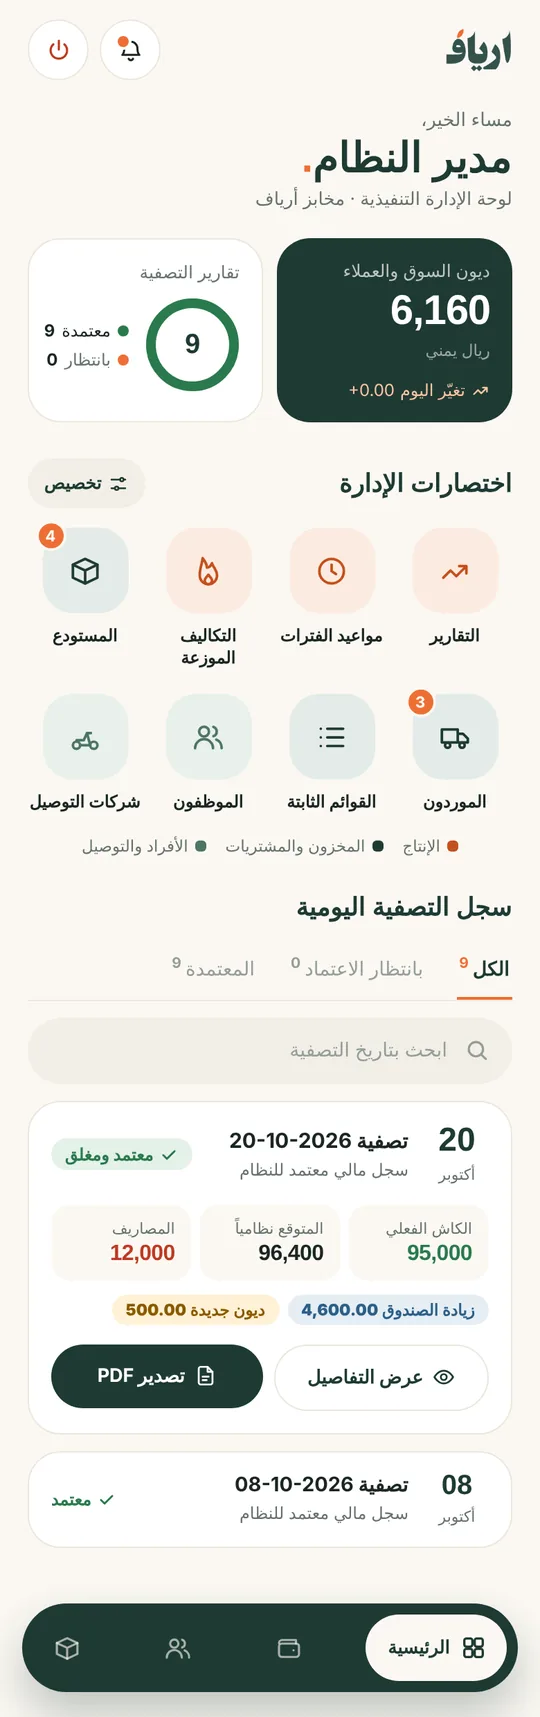
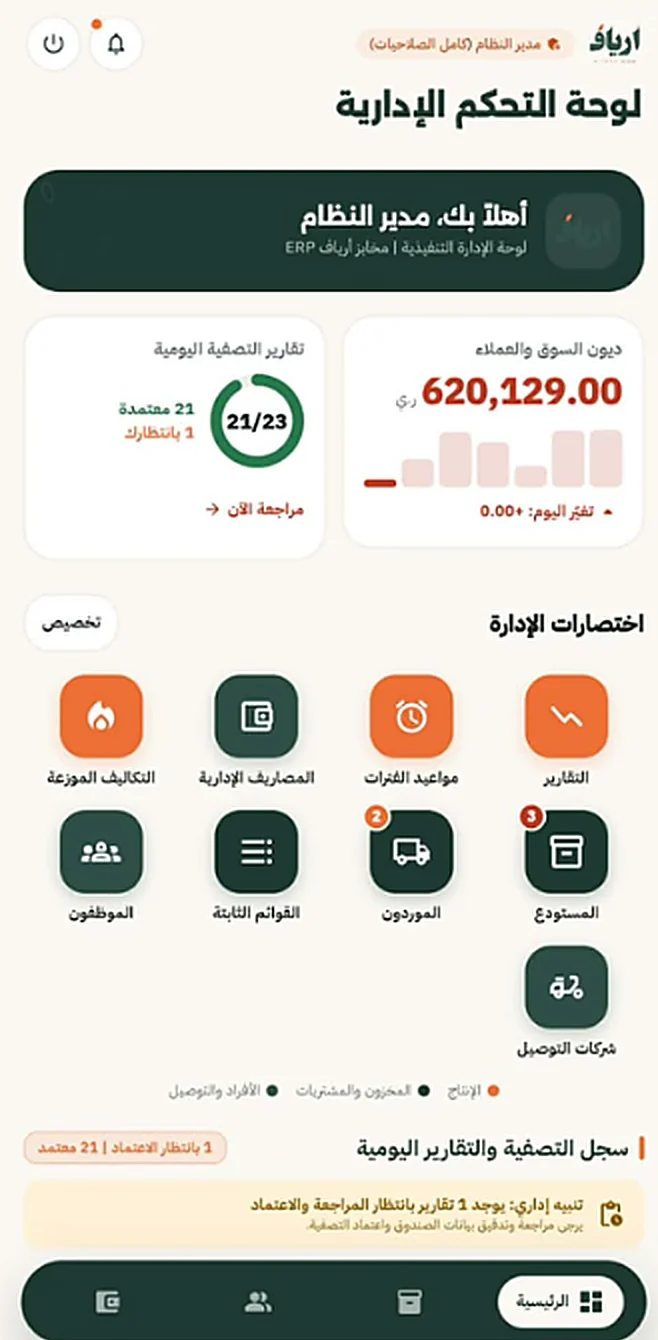
Use real Aryaf app screenshots (blurred, cropped, sharpened)
- Replace design-preview images with 9 real screens from the app
- Blur client names/balances, staff names/phones and an employee name
- Crop status/navigation bars, upscale and sharpen
- Update titles and descriptions (AR+EN) to match the screens

diff --git a/components/portfolio/projects-section.tsx b/components/portfolio/projects-section.tsx
@@ -214,29 +214,49 @@ const najehScreenshots = [
 
   const aryafScreenshots = [
     {
+      url: '/images/aryaf/login.webp',
+      title: isAr ? 'تسجيل الدخول' : 'Sign in',
+      description: isAr ? 'دخول برقم الهاتف وكلمة المرور، ولكل دور شاشاته وصلاحياته.' : 'Sign in with phone and password, with screens and permissions per role.',
+    },
+    {
       url: '/images/aryaf/dashboard.webp',
       title: isAr ? 'لوحة تحكم المدير' : 'Manager dashboard',
-      description: isAr ? 'ديون السوق والعملاء، اختصارات الإدارة، وسجل التصفية اليومية مع تصدير PDF.' : 'Market & client debts, management shortcuts and the daily settlement log with PDF export.',
+      description: isAr ? 'ديون السوق والعملاء، تقارير التصفية اليومية، واختصارات الإدارة.' : 'Market and client debts, daily settlement reports and management shortcuts.',
     },
     {
-      url: '/images/aryaf/cashier-sales.webp',
-      title: isAr ? 'مبيعات الكاشير' : 'Cashier sales',
-      description: isAr ? 'حصر مبيعات الأصناف (المستلم، التالف، المتبقي، الموزّع) وحفظ الكشف بالسحابة.' : 'Per-item sales tally (received, waste, remaining, distributed) saved to the cloud.',
+      url: '/images/aryaf/clients.webp',
+      title: isAr ? 'العملاء والديون' : 'Clients & debts',
+      description: isAr ? 'قائمة العملاء بالأرصدة والمطلوب، مع بحث وفرز بين البقالات والأفراد.' : 'Client list with balances and amounts due, searchable and split into shops and individuals.',
     },
     {
-      url: '/images/aryaf/showroom-home.webp',
-      title: isAr ? 'المعرض' : 'Showroom',
-      description: isAr ? 'النقد المتوقع، المبيعات والمصاريف، طلب عهدة وتسجيل بيع وحركات اليوم.' : 'Expected cash, sales and expenses, custody requests and today’s movements.',
-    },
-    {
-      url: '/images/aryaf/baker-home.webp',
-      title: isAr ? 'الإنتاج اليومي (العجّان)' : 'Daily production (baker)',
-      description: isAr ? 'فترات الإنتاج وكميات العجن المطلوبة من الإدارة وتسجيل الدفعات.' : 'Production periods, dough quantities set by management, and batch logging.',
+      url: '/images/aryaf/staff.webp',
+      title: isAr ? 'الموظفون والصلاحيات' : 'Staff & permissions',
+      description: isAr ? 'إدارة الفريق وأدواره: مدير، كاشير، كابتن توزيع، ومسؤول معرض.' : 'Manage the team and roles: admin, cashier, delivery captain and showroom manager.',
     },
     {
       url: '/images/aryaf/inventory.webp',
-      title: isAr ? 'المخزون' : 'Inventory',
-      description: isAr ? 'المواد الخام والمنتجات مع تنبيه فوري للمواد منخفضة الرصيد.' : 'Raw materials and products with instant alerts for low stock.',
+      title: isAr ? 'المستودع' : 'Inventory',
+      description: isAr ? 'المنتجات وأسعارها والمواد الخام في مكان واحد.' : 'Products, prices and raw materials in one place.',
+    },
+    {
+      url: '/images/aryaf/baker.webp',
+      title: isAr ? 'الإنتاج اليومي (العجّان)' : 'Daily production (baker)',
+      description: isAr ? 'فترات الإنتاج وخطة الإدارة والكمية المطلوبة لكل فترة.' : 'Production periods, management plan and the quantity required per period.',
+    },
+    {
+      url: '/images/aryaf/baker-materials.webp',
+      title: isAr ? 'كميات العجن والخامات' : 'Dough quantities & materials',
+      description: isAr ? 'اختيار كمية الدفعة مع احتساب الخامات المسحوبة والمتوفر منها.' : 'Pick the batch size with the materials drawn and stock available calculated.',
+    },
+    {
+      url: '/images/aryaf/cashier-close.webp',
+      title: isAr ? 'التصفية وإغلاق الصندوق' : 'Daily close-out',
+      description: isAr ? 'المقبوضات والمخرجات والتسويات وصافي النقد المتوقع في الدرج.' : 'Receipts, payouts and adjustments, with the expected net cash in the drawer.',
+    },
+    {
+      url: '/images/aryaf/cashier-expenses.webp',
+      title: isAr ? 'المصروفات والسلف اليومية' : 'Daily expenses & advances',
+      description: isAr ? 'تسجيل المصروفات وسداد الالتزامات ومسحوبات الموظفين مع سجل يومي.' : 'Log expenses, settle obligations and staff withdrawals with a daily record.',
     },
   ]
 
